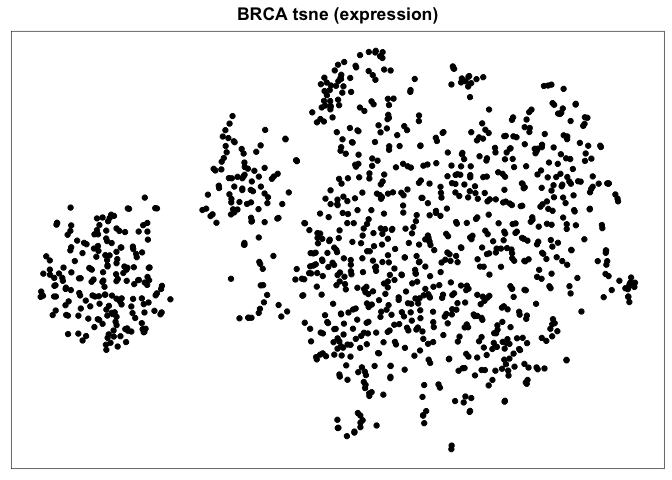
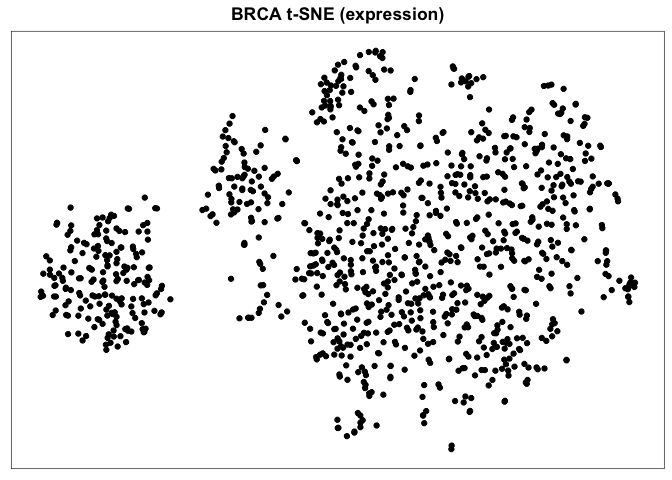
fix: improved default titles

Changed region(s): [[0.3438, 0.0, 0.6562, 0.0625]]

diff --git a/README.md b/README.md
@@ -85,40 +85,40 @@ To see all precomputed datasets available
 ``` r
 express_available_datasets()
 #>    name method    datatype
-#> 1   GBM   tsne  expression
-#> 2   ACC   tsne  expression
-#> 3  BLCA   tsne  expression
-#> 4  BRCA   tsne  expression
-#> 5  CESC   tsne  expression
-#> 6  CHOL   tsne  expression
-#> 7  COAD   tsne  expression
-#> 8  DLBC   tsne  expression
-#> 9  ESCA   tsne  expression
-#> 10 HNSC   tsne  expression
-#> 11 KICH   tsne  expression
-#> 12 KIRC   tsne  expression
-#> 13 KIRP   tsne  expression
-#> 14 LAML   tsne  expression
-#> 15  LGG   tsne  expression
-#> 16 LIHC   tsne  expression
-#> 17 LUAD   tsne  expression
-#> 18 LUSC   tsne  expression
-#> 19 MESO   tsne  expression
-#> 20   OV   tsne  expression
-#> 21 PAAD   tsne  expression
-#> 22 PCPG   tsne  expression
-#> 23 PRAD   tsne  expression
-#> 24 READ   tsne  expression
-#> 25 SARC   tsne  expression
-#> 26 SKCM   tsne  expression
-#> 27 STAD   tsne  expression
-#> 28 TGCT   tsne  expression
-#> 29 THCA   tsne  expression
-#> 30 THYM   tsne  expression
-#> 31 UCEC   tsne  expression
-#> 32  UCS   tsne  expression
-#> 33  UVM   tsne  expression
-#> 34 BRCA   umap methylation
+#> 1   GBM  t-SNE  expression
+#> 2   ACC  t-SNE  expression
+#> 3  BLCA  t-SNE  expression
+#> 4  BRCA  t-SNE  expression
+#> 5  CESC  t-SNE  expression
+#> 6  CHOL  t-SNE  expression
+#> 7  COAD  t-SNE  expression
+#> 8  DLBC  t-SNE  expression
+#> 9  ESCA  t-SNE  expression
+#> 10 HNSC  t-SNE  expression
+#> 11 KICH  t-SNE  expression
+#> 12 KIRC  t-SNE  expression
+#> 13 KIRP  t-SNE  expression
+#> 14 LAML  t-SNE  expression
+#> 15  LGG  t-SNE  expression
+#> 16 LIHC  t-SNE  expression
+#> 17 LUAD  t-SNE  expression
+#> 18 LUSC  t-SNE  expression
+#> 19 MESO  t-SNE  expression
+#> 20   OV  t-SNE  expression
+#> 21 PAAD  t-SNE  expression
+#> 22 PCPG  t-SNE  expression
+#> 23 PRAD  t-SNE  expression
+#> 24 READ  t-SNE  expression
+#> 25 SARC  t-SNE  expression
+#> 26 SKCM  t-SNE  expression
+#> 27 STAD  t-SNE  expression
+#> 28 TGCT  t-SNE  expression
+#> 29 THCA  t-SNE  expression
+#> 30 THYM  t-SNE  expression
+#> 31 UCEC  t-SNE  expression
+#> 32  UCS  t-SNE  expression
+#> 33  UVM  t-SNE  expression
+#> 34 BRCA   UMAP methylation
 #>                                                description
 #> 1    mRNA expression t-SNE from the pancanatlas GBM cohort
 #> 2    mRNA expression t-SNE from the pancanatlas ACC cohort
